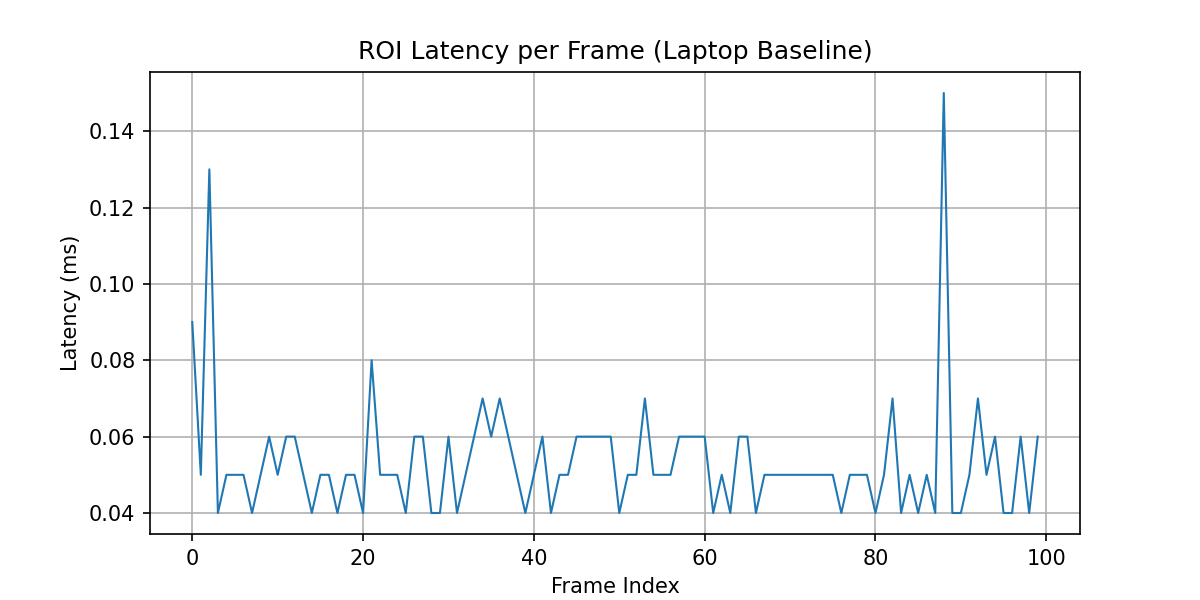
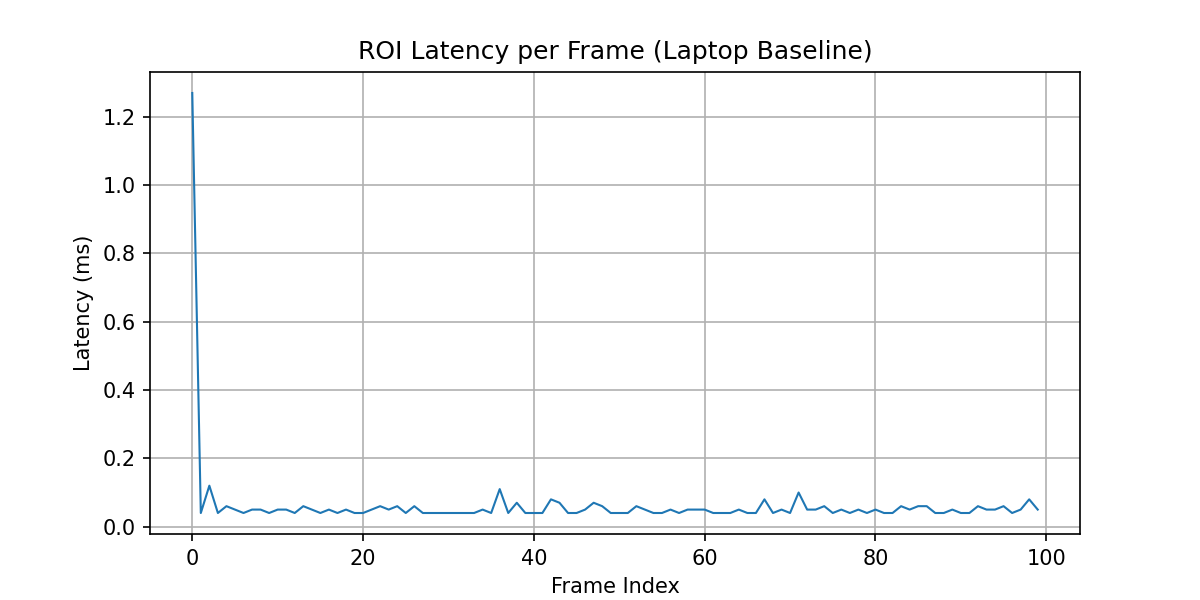
Add ROI latency benchmark for laptop and VM environments

Changed region(s): [[0.0308, 0.18, 0.8942, 0.9]]

diff --git a/roi_latency.py b/roi_latency.py
@@ -3,31 +3,64 @@ import time
 import csv
 import os
 import psutil
+import argparse
 
+# -----------------------------
+# Arguments
+# -----------------------------
+parser = argparse.ArgumentParser()
+parser.add_argument("--env", choices=["laptop", "vm"], default="laptop",
+                    help="Execution environment: laptop (camera) or vm (static image)")
+args = parser.parse_args()
+
+# -----------------------------
+# Paths
+# -----------------------------
 os.makedirs("logs", exist_ok=True)
-log_path = os.path.join("logs", "latency.csv")
+log_path = os.path.join("logs", f"example_latency_{args.env}.csv")
 
-cap = cv2.VideoCapture(0)
+# -----------------------------
+# Process info
+# -----------------------------
 process = psutil.Process()
+MAX_FRAMES = 100
 
+# -----------------------------
+# Input source
+# -----------------------------
+if args.env == "laptop":
+    cap = cv2.VideoCapture(0)
+    if not cap.isOpened():
+        raise RuntimeError("Camera not available on laptop")
+else:
+    # VM mode: use a fixed image (no camera)
+    image_path = os.path.join("data", "sample_tongue.jpg")
+    frame = cv2.imread(image_path)
+    if frame is None:
+        raise RuntimeError(f"Cannot load image: {image_path}")
+
+# -----------------------------
+# Logging
+# -----------------------------
 with open(log_path, "w", newline="", encoding="utf-8") as f:
     writer = csv.writer(f)
     writer.writerow(["frame", "latency_ms", "cpu_percent", "ram_mb"])
 
-    frame_id = 0
-    MAX_FRAMES = 100
+    for frame_id in range(MAX_FRAMES):
 
-    while cap.isOpened() and frame_id < MAX_FRAMES:
-        ret, frame = cap.read()
-        if not ret:
-            break
+        if args.env == "laptop":
+            ret, frame = cap.read()
+            if not ret:
+                break
 
         t0 = time.perf_counter()
 
-        # TODO: 下一步再加 ROI 偵測（先確認最小版能跑）
+        # --- ROI processing (same as original) ---
         h, w, _ = frame.shape
-        roi = frame[int(h*0.4):int(h*0.7), int(w*0.3):int(w*0.7)]
+        roi = frame[int(h * 0.4):int(h * 0.7),
+                    int(w * 0.3):int(w * 0.7)]
         _ = cv2.cvtColor(roi, cv2.COLOR_BGR2GRAY)
+
         t1 = time.perf_counter()
         latency_ms = (t1 - t0) * 1000
 
@@ -35,9 +68,12 @@ with open(log_path, "w", newline="", encoding="utf-8") as f:
         ram_mb = process.memory_info().rss / (1024 * 1024)
 
         writer.writerow([frame_id, f"{latency_ms:.2f}", cpu, f"{ram_mb:.2f}"])
-        print(f"Frame {frame_id}: {latency_ms:.2f} ms | CPU {cpu}% | RAM {ram_mb:.2f} MB")
+        print(
+            f"[{args.env}] Frame {frame_id}: "
+            f"{latency_ms:.2f} ms | CPU {cpu}% | RAM {ram_mb:.2f} MB"
+        )
 
-        frame_id += 1
+if args.env == "laptop":
+    cap.release()
 
-cap.release()
 print(f"Saved log to: {log_path}")

diff --git a/docs/proposal_text_year1.md b/docs/proposal_text_year1.md
@@ -1,0 +1,43 @@
+
+
+# 一、研究方法與步驟
+
+### （一）舌部影像 ROI 前處理流程與效能量測方法
+
+本研究第一年聚焦於系統層級之可行性驗證，評估舌部影像前處理流程於一般運算環境下之即時性與資源需求。實驗以筆電內建攝影機即時擷取影像串流，連續處理 **100 張影像幀**，並於每一影像幀中執行代表性舌部 ROI（Region of Interest）裁切與基本影像處理操作（影像裁切與灰階轉換），以模擬邊緣端舌部影像前處理之最小可行流程。
+
+系統於每一影像幀處理過程中，同步量測單幀處理延遲（latency），並即時記錄 CPU 使用率與記憶體使用量。所有量測結果皆以結構化格式（CSV 檔案）進行保存，作為系統效能分析與後續低資源環境測試之比較基準。
+
+---
+
+# 二、初步實驗結果與數據
+
+### （二）系統效能評估結果（Latency 與資源使用）
+
+根據初步實驗結果，在筆電環境下執行代表性舌部 ROI 前處理流程時，單一影像幀之處理延遲介於 **0.04 ms 至 1.27 ms** 之間。其中，除第一影像幀因初始化造成較高延遲外，其餘多數影像幀之處理延遲集中於 **約 0.04–0.08 ms**，顯示該流程具備穩定且極低延遲之特性。
+
+在運算資源使用方面，CPU 使用率多數時間維持於 **約 5%–35%** 區間，僅於少數影像幀出現瞬時較高波動；整體未觀察到持續性高負載情形。記憶體使用量約介於 **88 MB 至 95 MB** 之間，於整體實驗過程中呈現穩定狀態，未出現明顯累積或異常成長現象。
+
+上述結果顯示，本研究所實作之舌部影像 ROI 前處理流程，在即時影像串流條件下可維持低延遲、低運算負載與穩定運行之系統特性。
+
+> （本研究已完整保留每一影像幀之處理延遲、CPU 使用率與記憶體使用量 log，作為系統可行性驗證之佐證資料。）
+
+---
+
+# 三、邊緣運算可行性說明
+
+### （三）邊緣設備部署可行性分析
+
+由初步效能量測結果可知，所提出之舌部影像 ROI 前處理流程於一般筆電運算環境下即可即時穩定執行，其處理延遲與資源需求均顯著低於一般邊緣運算設備之可負荷範圍。此結果顯示，本研究之系統架構具備部署於低資源環境（如限制 CPU 與記憶體配置之虛擬機，或樹莓派等邊緣設備）之可行性。
+
+後續研究將於低資源虛擬機環境中執行相同之處理流程與效能量測，進一步比較不同運算資源條件下之系統表現，作為實體邊緣設備部署前之重要驗證依據。
+
+---
+
+# 四、可放在「預期成果（第一年）」的精簡版（可選）
+
+> 本研究第一年已完成舌部影像 ROI 前處理流程之原型實作，並取得具體效能量測數據。初步結果顯示，該流程於即時影像串流條件下，單幀處理延遲多數低於 0.1 ms，CPU 使用率約為 5%–35%，記憶體使用量約為 88–95 MB，顯示其具備低延遲與低資源需求之特性，適合作為後續智慧舌診系統之邊緣端前處理模組。
+
+---
+
+
